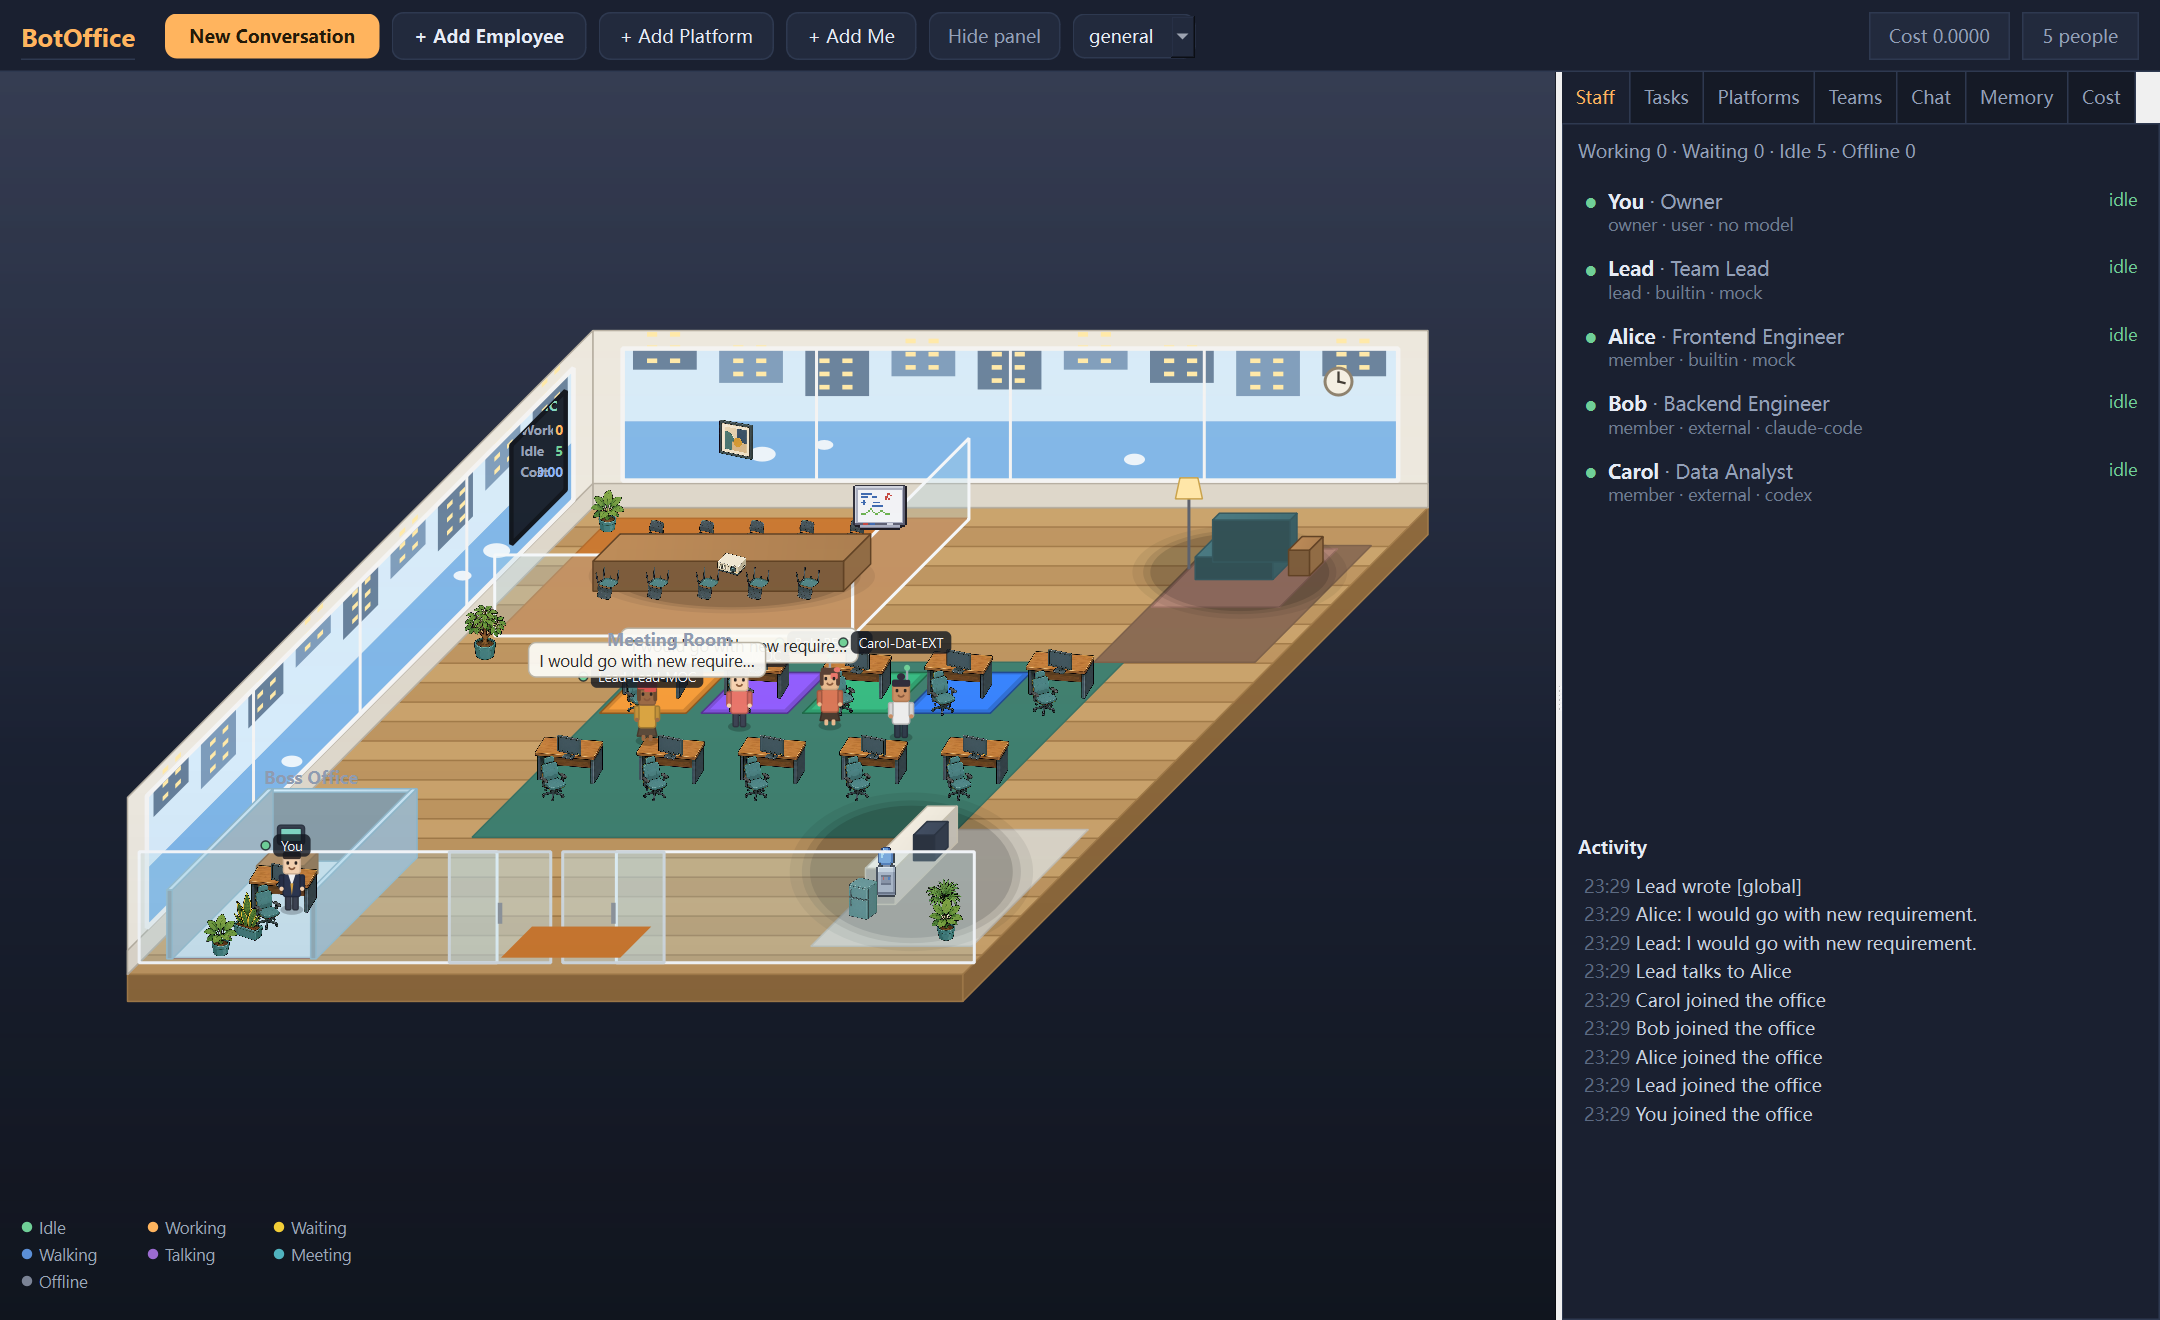
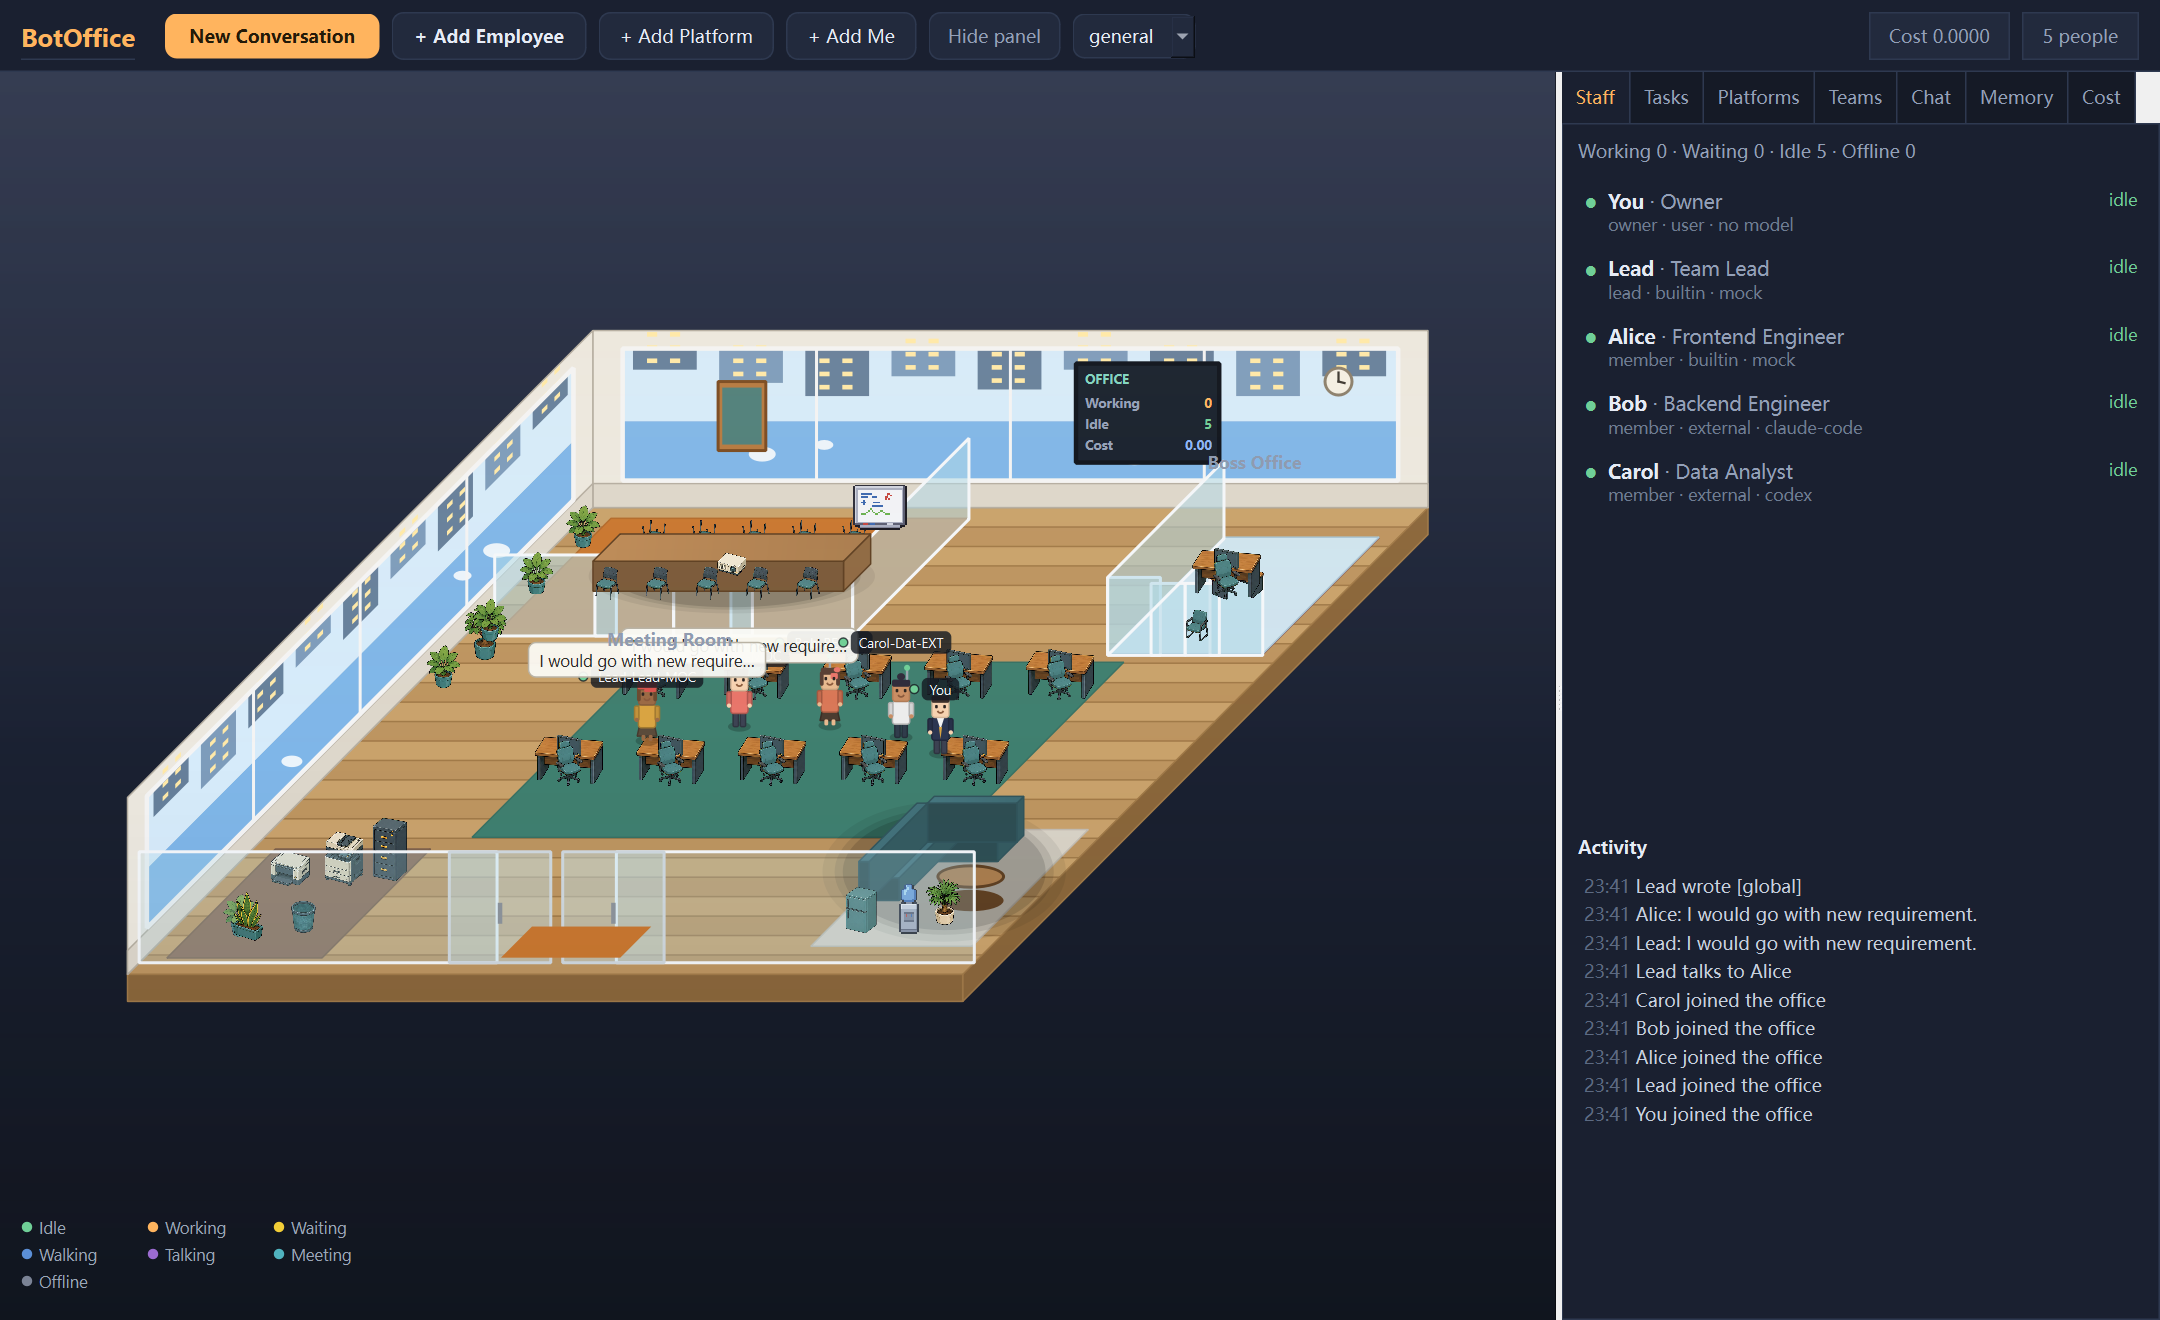
Rearrange the office: boss top-right, rest area bottom-left
- the boss office moves to the top-right and the rest area to the bottom
  left, matching the reference plan
- the boss office keeps the building's back wall and adds glass on its
  front and left, with a pair of sliding doors
- the meeting room front is a pair of sliding glass doors too
- the digital board moves to the back wall between the two rooms
- the pantry gets an L-shaped sofa and a round table; the rest area gets
  the printer corner; plants line the left wall instead of stacking

diff --git a/botoffice/gui/scene.py b/botoffice/gui/scene.py
@@ -526,10 +526,9 @@ class OfficeScene:
         self._draw_wall(painter, (x0, z0), (x0, z1))
         self._draw_window_band(painter, "z", x0 + 1.0, x1 - 1.0, z0)
         self._draw_window_band(painter, "x", z0 + 1.0, z1 - 1.0, x0)
-        self._draw_digital_board(painter, "x", z0 + 1.4, z0 + 4.2, x0)
+        self._draw_digital_board(painter, "z", 2.2, 7.0, z0)
         self._draw_clock(painter, "z", x1 - 3.0, z0)
 
-        self._draw_desk_rugs(painter)
 
         meeting = self.zones.get("meeting")
         if meeting:
@@ -550,19 +549,16 @@ class OfficeScene:
         self._sprite(painter, "tree", x0 + 1.6, z0 + 8.0, 1.6)
         self._sprite(painter, "plant_palm", x1 - 2.2, z1 - 2.4, 1.4)
         self._sprite(painter, "plant_snake", x0 + 3.0, z1 - 1.6, 1.2)
-        self._sprite(painter, "artwork", x0 + 5.0, z0 + 0.3, 1.3, height=34)
+        self._draw_picture(painter, "z", x0 + 4.2, x0 + 5.8, z0)
 
-        for px, pz in (
-            (x0 + 1.4, z0 + 1.4),
-            (x1 - 1.6, z1 - 1.6),
-            (x0 + 2.6, z1 - 0.8),
-        ):
-            self._draw_plant(painter, px, pz)
+        # Plants in a row along the left wall, spaced out.
+        for index in range(4):
+            self._draw_plant(painter, x0 + 1.1, z0 + 2.2 + index * 2.4)
 
     def _draw_meeting_room(self, painter: QPainter, zone: dict) -> None:
         """A long table with five chairs down each side, behind glass walls."""
         x, z, w, d = zone["x"], zone["z"], zone["w"], zone["d"]
-        self._glass_wall(painter, x, z + d, w, 0.0, "x")
+        self._sliding_doors(painter, x, z + d, w, 54.0)
         self._glass_wall(painter, x + w, z, 0.0, d, "z")
 
         table_x = x + 1.8
@@ -573,7 +569,7 @@ class OfficeScene:
         # The back row is drawn first so the table hides it.
         for index in range(5):
             cx = table_x + (index + 0.5) * table_w / 5
-            self._sprite(painter, "chair_meeting", cx, table_z - 0.45, 0.95)
+            self._sprite(painter, "chair_meeting", cx, table_z - 0.45, 0.95, flip=True)
 
         self._shadow(painter, table_x + table_w / 2, table_z + table_d / 2, 4.0, 1.6)
         self._box(painter, table_x, table_z, table_w, table_d, 20, TABLE, DESK_LEG)
@@ -581,7 +577,7 @@ class OfficeScene:
 
         for index in range(5):
             cx = table_x + (index + 0.5) * table_w / 5
-            self._sprite(painter, "chair_meeting", cx, table_z + table_d + 0.55, 0.95, flip=True)
+            self._sprite(painter, "chair_meeting", cx, table_z + table_d + 0.55, 0.95)
 
         # A whiteboard at the far right of the room.
         self._sprite(painter, "whiteboard", x + w - 2.4, z + 0.9, 1.8)
@@ -596,7 +592,7 @@ class OfficeScene:
         else:
             a = self.to_screen(x, z)
             b = self.to_screen(x, z + d)
-        painter.setBrush(QBrush(QColor(176, 216, 232, 70)))
+        painter.setBrush(QBrush(QColor(176, 216, 232, 140)))
         painter.setPen(QPen(QColor("#f4f7fa"), 2))
         painter.drawPolygon(QPolygonF([
             a, b, QPointF(b.x(), b.y() - height), QPointF(a.x(), a.y() - height),
@@ -766,10 +762,9 @@ class OfficeScene:
         self._draw_wall(painter, (x0, z0), (x0, z1))
         self._draw_window_band(painter, "z", x0 + 1.0, x1 - 1.0, z0)
         self._draw_window_band(painter, "x", z0 + 1.0, z1 - 1.0, x0)
-        self._draw_digital_board(painter, "x", z0 + 1.4, z0 + 4.2, x0)
+        self._draw_digital_board(painter, "z", 2.2, 7.0, z0)
         self._draw_clock(painter, "z", x1 - 3.0, z0)
 
-        self._draw_desk_rugs(painter)
 
         meeting = self.zones.get("meeting")
         if meeting:
@@ -790,19 +785,16 @@ class OfficeScene:
         self._sprite(painter, "tree", x0 + 1.6, z0 + 8.0, 1.6)
         self._sprite(painter, "plant_palm", x1 - 2.2, z1 - 2.4, 1.4)
         self._sprite(painter, "plant_snake", x0 + 3.0, z1 - 1.6, 1.2)
-        self._sprite(painter, "artwork", x0 + 5.0, z0 + 0.3, 1.3, height=34)
+        self._draw_picture(painter, "z", x0 + 4.2, x0 + 5.8, z0)
 
-        for px, pz in (
-            (x0 + 1.4, z0 + 1.4),
-            (x1 - 1.6, z1 - 1.6),
-            (x0 + 2.6, z1 - 0.8),
-        ):
-            self._draw_plant(painter, px, pz)
+        # Plants in a row along the left wall, spaced out.
+        for index in range(4):
+            self._draw_plant(painter, x0 + 1.1, z0 + 2.2 + index * 2.4)
 
     def _draw_meeting_room(self, painter: QPainter, zone: dict) -> None:
         """A long table with five chairs down each side, behind glass walls."""
         x, z, w, d = zone["x"], zone["z"], zone["w"], zone["d"]
-        self._glass_wall(painter, x, z + d, w, 0.0, "x")
+        self._sliding_doors(painter, x, z + d, w, 54.0)
         self._glass_wall(painter, x + w, z, 0.0, d, "z")
 
         table_x = x + 1.8
@@ -813,7 +805,7 @@ class OfficeScene:
         # The back row is drawn first so the table hides it.
         for index in range(5):
             cx = table_x + (index + 0.5) * table_w / 5
-            self._sprite(painter, "chair_meeting", cx, table_z - 0.45, 0.95)
+            self._sprite(painter, "chair_meeting", cx, table_z - 0.45, 0.95, flip=True)
 
         self._shadow(painter, table_x + table_w / 2, table_z + table_d / 2, 4.0, 1.6)
         self._box(painter, table_x, table_z, table_w, table_d, 20, TABLE, DESK_LEG)
@@ -821,7 +813,7 @@ class OfficeScene:
 
         for index in range(5):
             cx = table_x + (index + 0.5) * table_w / 5
-            self._sprite(painter, "chair_meeting", cx, table_z + table_d + 0.55, 0.95, flip=True)
+            self._sprite(painter, "chair_meeting", cx, table_z + table_d + 0.55, 0.95)
 
         # A whiteboard at the far right of the room.
         self._sprite(painter, "whiteboard", x + w - 2.4, z + 0.9, 1.8)
@@ -836,7 +828,7 @@ class OfficeScene:
         else:
             a = self.to_screen(x, z)
             b = self.to_screen(x, z + d)
-        painter.setBrush(QBrush(QColor(176, 216, 232, 70)))
+        painter.setBrush(QBrush(QColor(176, 216, 232, 140)))
         painter.setPen(QPen(QColor("#f4f7fa"), 2))
         painter.drawPolygon(QPolygonF([
             a, b, QPointF(b.x(), b.y() - height), QPointF(a.x(), a.y() - height),
@@ -942,19 +934,7 @@ class OfficeScene:
             painter.drawLine(point(f, 0.0), point(f, 1.0))
 
     def _draw_desk_rugs(self, painter: QPainter) -> None:
-        """A coloured plate under every desk, like a status rug."""
-        for item in self.furniture:
-            if item.kind != "desk":
-                continue
-            avatar = self.avatars.get(item.owner)
-            index = avatar.color_index if avatar else 0
-            color = RUG_COLORS[index % len(RUG_COLORS)]
-            painter.setBrush(QBrush(color))
-            painter.setPen(QPen(color.darker(150), 1))
-            painter.drawPolygon(self._quad(item.x - 1.45, item.z - 1.05, 2.9, 2.1, 1.0))
-            painter.setBrush(QBrush(color.lighter(118)))
-            painter.setPen(Qt.NoPen)
-            painter.drawPolygon(self._quad(item.x - 1.25, item.z - 0.9, 2.5, 1.8, 1.6))
+        """Reserved: the desk mats were removed, they read as noise."""
 
     def _zone(self, painter: QPainter, x: float, z: float, w: float, d: float,
               color: QColor) -> None:
@@ -1057,6 +1037,18 @@ class OfficeScene:
 
     # ------------------------------------------------------- wall decor
 
+    def _draw_picture(self, painter: QPainter, wall: str, a: float, b: float,
+                      coord: float) -> None:
+        """A framed picture lying flat on the wall plane."""
+        frame = self._wall_quad(wall, a, b, coord, 38, 84)
+        painter.setBrush(QBrush(QColor("#b5793f")))
+        painter.setPen(QPen(QColor("#7a4a20"), 2))
+        painter.drawPolygon(frame)
+        canvas = self._wall_quad(wall, a + 0.14, b - 0.14, coord, 42, 80)
+        painter.setBrush(QBrush(QColor("#4f7f7a")))
+        painter.setPen(Qt.NoPen)
+        painter.drawPolygon(canvas)
+
     def _draw_clock(self, painter: QPainter, wall: str, a: float, coord: float) -> None:
         centre = (
             self.to_screen(a, coord, WALL_H - 34) if wall == "z"
@@ -1102,12 +1094,25 @@ class OfficeScene:
     # ----------------------------------------------------------- furniture
 
     def _draw_kitchen(self, painter: QPainter, x: float, z: float) -> None:
-        self._shadow(painter, x + 0.5, z + 1.6, 3.4, 3.4)
-        self._box(painter, x, z, 1.0, 3.2, 24, COUNTER, COUNTER_SIDE)
-        self._box(painter, x + 0.15, z + 0.25, 0.7, 0.7, 17, CHAIR, CHAIR_DARK)
-        self._draw_water_cooler(painter, x + 0.5, z + 2.9)
-        if not self._sprite(painter, "fridge", x + 0.5, z + 4.1, 1.1):
-            self._box(painter, x, z + 3.6, 1.0, 1.0, 36, FRIDGE, FRIDGE_SIDE)
+        """The pantry: an L-shaped sofa, a round table, fridge and cooler."""
+        self._shadow(painter, x + 1.6, z + 1.6, 3.4, 3.0)
+        self._box(painter, x, z, 3.0, 1.0, 15, SOFA, SOFA_DARK)
+        self._box(painter, x, z, 1.0, 3.0, 15, SOFA, SOFA_DARK)
+        self._box(painter, x, z - 0.35, 3.0, 0.35, 26, SOFA, SOFA_DARK)
+        self._box(painter, x - 0.35, z, 0.35, 3.0, 26, SOFA, SOFA_DARK)
+
+        # Round table in the middle of the sofa corner.
+        centre = self.to_screen(x + 3.4, z + 3.0, 16)
+        painter.setBrush(QBrush(DESK_LEG))
+        painter.setPen(Qt.NoPen)
+        painter.drawEllipse(QPointF(centre.x(), centre.y() + 16),
+                            1.1 * self.tile_w, 0.55 * self.tile_h)
+        painter.setBrush(QBrush(TABLE))
+        painter.setPen(QPen(DESK_LEG, 2))
+        painter.drawEllipse(centre, 1.1 * self.tile_w, 0.55 * self.tile_h)
+
+        self._sprite(painter, "fridge", x + 0.9, z + 4.8, 1.2)
+        self._sprite(painter, "cooler", x + 2.5, z + 4.8, 0.9)
 
     def _draw_water_cooler(self, painter: QPainter, x: float, z: float) -> None:
         if self._sprite(painter, "cooler", x, z, 0.9):
@@ -1119,26 +1124,12 @@ class OfficeScene:
         painter.drawEllipse(QRectF(top.x() - 7, top.y() - 20, 14, 20))
 
     def _draw_lounge(self, painter: QPainter, x: float, z: float) -> None:
-        if self._sprite(painter, "sofa", x + 1.3, z + 0.5, 3.2):
-            return
-        painter.setBrush(QBrush(QColor("#b98a7a")))
-        painter.setPen(QPen(QColor("#9a6f62"), 1))
-        painter.drawPolygon(self._quad(x - 0.5, z - 0.6, 4.3, 3.0, 1.0))
-
-        self._shadow(painter, x + 1.3, z + 0.6, 3.0, 2.0)
-        self._box(painter, x, z, 2.6, 0.9, 15, SOFA, SOFA_DARK)
-        self._box(painter, x, z - 0.35, 2.6, 0.35, 28, SOFA, SOFA_DARK)
-        self._box(painter, x + 3.0, z, 0.7, 0.7, 17, TABLE, DESK_LEG)
-
-        base = self.to_screen(x - 0.6, z + 0.3)
-        painter.setPen(QPen(QColor("#5a5f6b"), 2))
-        painter.drawLine(base, QPointF(base.x(), base.y() - 46))
-        painter.setBrush(QBrush(QColor("#ffe6a8")))
-        painter.setPen(QPen(QColor("#c9a24a"), 1))
-        painter.drawPolygon(QPolygonF([
-            QPointF(base.x() - 9, base.y() - 46), QPointF(base.x() + 9, base.y() - 46),
-            QPointF(base.x() + 6, base.y() - 60), QPointF(base.x() - 6, base.y() - 60),
-        ]))
+        """The rest area: a printer corner, a shelf and plants."""
+        self._sprite(painter, "printer", x + 1.2, z + 1.2, 1.5)
+        self._sprite(painter, "copier", x + 3.0, z + 1.2, 1.5)
+        self._sprite(painter, "shelf", x + 4.4, z + 1.0, 1.4)
+        self._sprite(painter, "plant", x + 1.2, z + 3.8, 1.3)
+        self._sprite(painter, "bin", x + 3.2, z + 3.6, 1.0)
 
     def _draw_bookshelf(self, painter: QPainter, x: float, z: float) -> None:
         if self._sprite(painter, "shelf", x + 0.45, z + 1.0, 1.4):
@@ -1172,26 +1163,40 @@ class OfficeScene:
 
     def _draw_office_room(self, painter: QPainter, x: float, z: float,
                           w: float, d: float) -> None:
-        """The leader's office: a solid light-blue room with an open front."""
-        # Floor plate.
+        """The boss office: a glass front and side, no walls of its own."""
         painter.setBrush(QBrush(QColor("#cfe4ef")))
         painter.setPen(QPen(QColor("#a9c6d6"), 1))
         painter.drawPolygon(self._quad(x, z, w, d, 1.0))
 
-        wall_h = 46.0
-        # Back wall (z side) and left wall (x side); the front stays open.
-        self._box(painter, x, z, w, 0.18, wall_h, GLASS_OFFICE, QColor("#8fb6c9"))
-        self._box(painter, x, z, 0.18, d, wall_h, GLASS_OFFICE, QColor("#8fb6c9"))
-        self._box(painter, x + w - 0.18, z, 0.18, d, wall_h, GLASS_OFFICE, QColor("#8fb6c9"))
+        height = 52.0
+        # Front wall with a pair of sliding doors.
+        self._sliding_doors(painter, x, z + d, w, height)
+        # Left wall; the back is the building's own wall.
+        self._glass_segment(painter, x, z, x, z + d, height)
 
         # A desk inside.
-        self._box(painter, x + 0.6, z + 0.8, 1.6, 0.7, 14, DESK_TOP, DESK_SIDE)
-        screen = self.to_screen(x + 1.4, z + 0.95, 26)
-        painter.setBrush(QBrush(MONITOR))
-        painter.setPen(QPen(CHAIR_DARK, 1))
-        painter.drawRoundedRect(QRectF(screen.x() - 9, screen.y() - 8, 18, 13), 2, 2)
-        painter.setBrush(QBrush(MONITOR_SCREEN))
-        painter.drawRoundedRect(QRectF(screen.x() - 7, screen.y() - 6, 14, 9), 1, 1)
+        self._sprite(painter, "desk_corner", x + w * 0.5, z + d * 0.55, 2.0)
+        self._sprite(painter, "chair_visitor", x + w * 0.5, z + d * 0.9, 0.9)
+
+    def _sliding_doors(self, painter: QPainter, x: float, z: float, w: float,
+                       height: float) -> None:
+        """A glass front split by a pair of sliding leaves."""
+        self._glass_segment(painter, x, z, x + w * 0.34, z, height)
+        self._glass_segment(painter, x + w * 0.66, z, x + w, z, height)
+        for start in (0.28, 0.50):
+            self._glass_segment(painter, x + w * start, z,
+                                x + w * (start + 0.22), z, height - 4)
+
+    def _glass_segment(self, painter: QPainter, x1: float, z1: float,
+                       x2: float, z2: float, height: float) -> None:
+        """A glass panel between two floor points."""
+        a = self.to_screen(x1, z1)
+        b = self.to_screen(x2, z2)
+        painter.setBrush(QBrush(QColor(176, 216, 232, 140)))
+        painter.setPen(QPen(QColor("#f4f7fa"), 2))
+        painter.drawPolygon(QPolygonF([
+            a, b, QPointF(b.x(), b.y() - height), QPointF(a.x(), a.y() - height),
+        ]))
 
     def _draw_meeting_set(self, painter: QPainter, mx: float, mz: float) -> None:
         top = self.to_screen(mx, mz, 20)
@@ -1249,7 +1254,7 @@ class OfficeScene:
                 target_h = desk_pixmap.height() * (target_w / desk_pixmap.width())
                 surface = base.y() - target_h * 0.48
                 self._sprite_at(painter, "monitor", base.x(), surface, 0.95)
-            self._sprite(painter, "chair", x, z + 1.25, 1.1)
+            self._sprite(painter, "chair", x, z + 0.45, 1.1)
             return
         self._shadow(painter, x, z + 0.2, 2.2, 1.6)
 

diff --git a/botoffice/orchestrator/office.py b/botoffice/orchestrator/office.py
@@ -30,8 +30,8 @@ ROOM = {"min_x": -14.0, "max_x": 14.0, "min_z": -12.0, "max_z": 12.0}
 ZONES = {
     "meeting": {"x": -13.0, "z": -11.4, "w": 12.0, "d": 6.0, "color": "#c9772f"},
     "work": {"x": -7.0, "z": -4.0, "w": 16.0, "d": 9.0, "color": "#3f7f6f"},
-    "boss": {"x": -13.2, "z": 6.0, "w": 5.0, "d": 5.2, "color": "#8a4a4a"},
-    "lounge": {"x": 8.0, "z": -10.0, "w": 5.4, "d": 6.0, "color": "#8a6a52"},
+    "boss": {"x": 8.2, "z": -10.4, "w": 5.2, "d": 6.0, "color": "#8a4a4a"},
+    "lounge": {"x": -13.2, "z": 5.6, "w": 5.2, "d": 5.6, "color": "#8a6a52"},
     "pantry": {"x": 8.0, "z": 4.6, "w": 5.4, "d": 6.0, "color": "#d9d3c6"},
 }
 
@@ -40,7 +40,7 @@ MEETING_ROOM_RADIUS = 2.6
 
 # The owner (the human using the app) sits in the boss office.
 BOSS_ID = "me"
-BOSS_SPOT = (-10.7, 8.6)
+BOSS_SPOT = (10.4, -7.6)
 
 # Where people come in.
 ENTRANCE = (0.0, 11.4)
